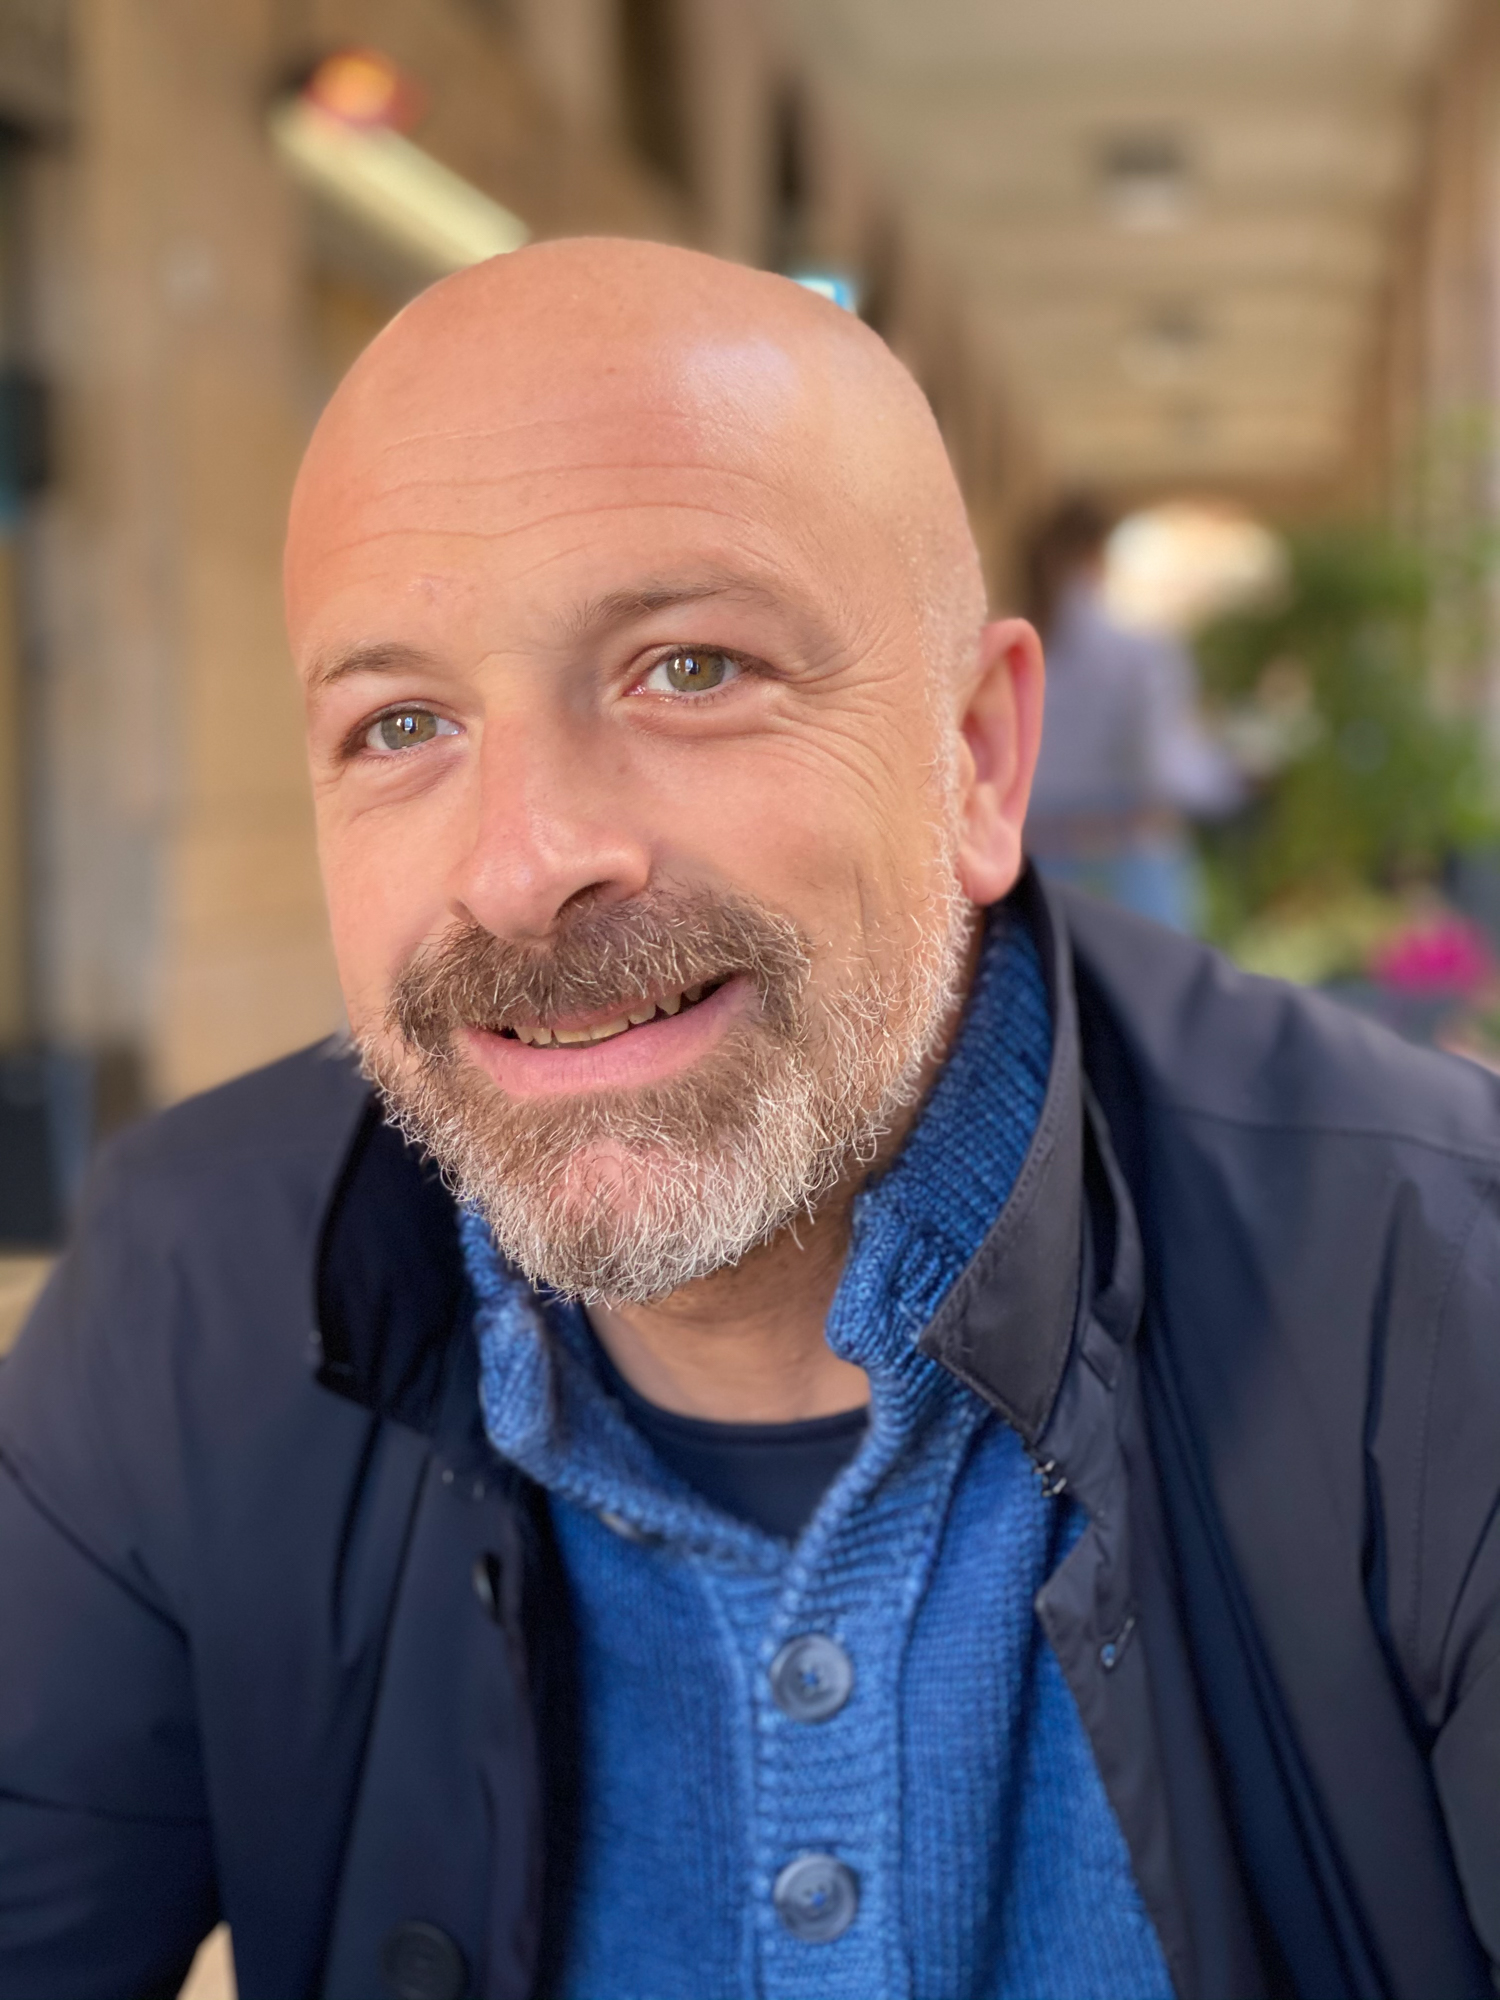
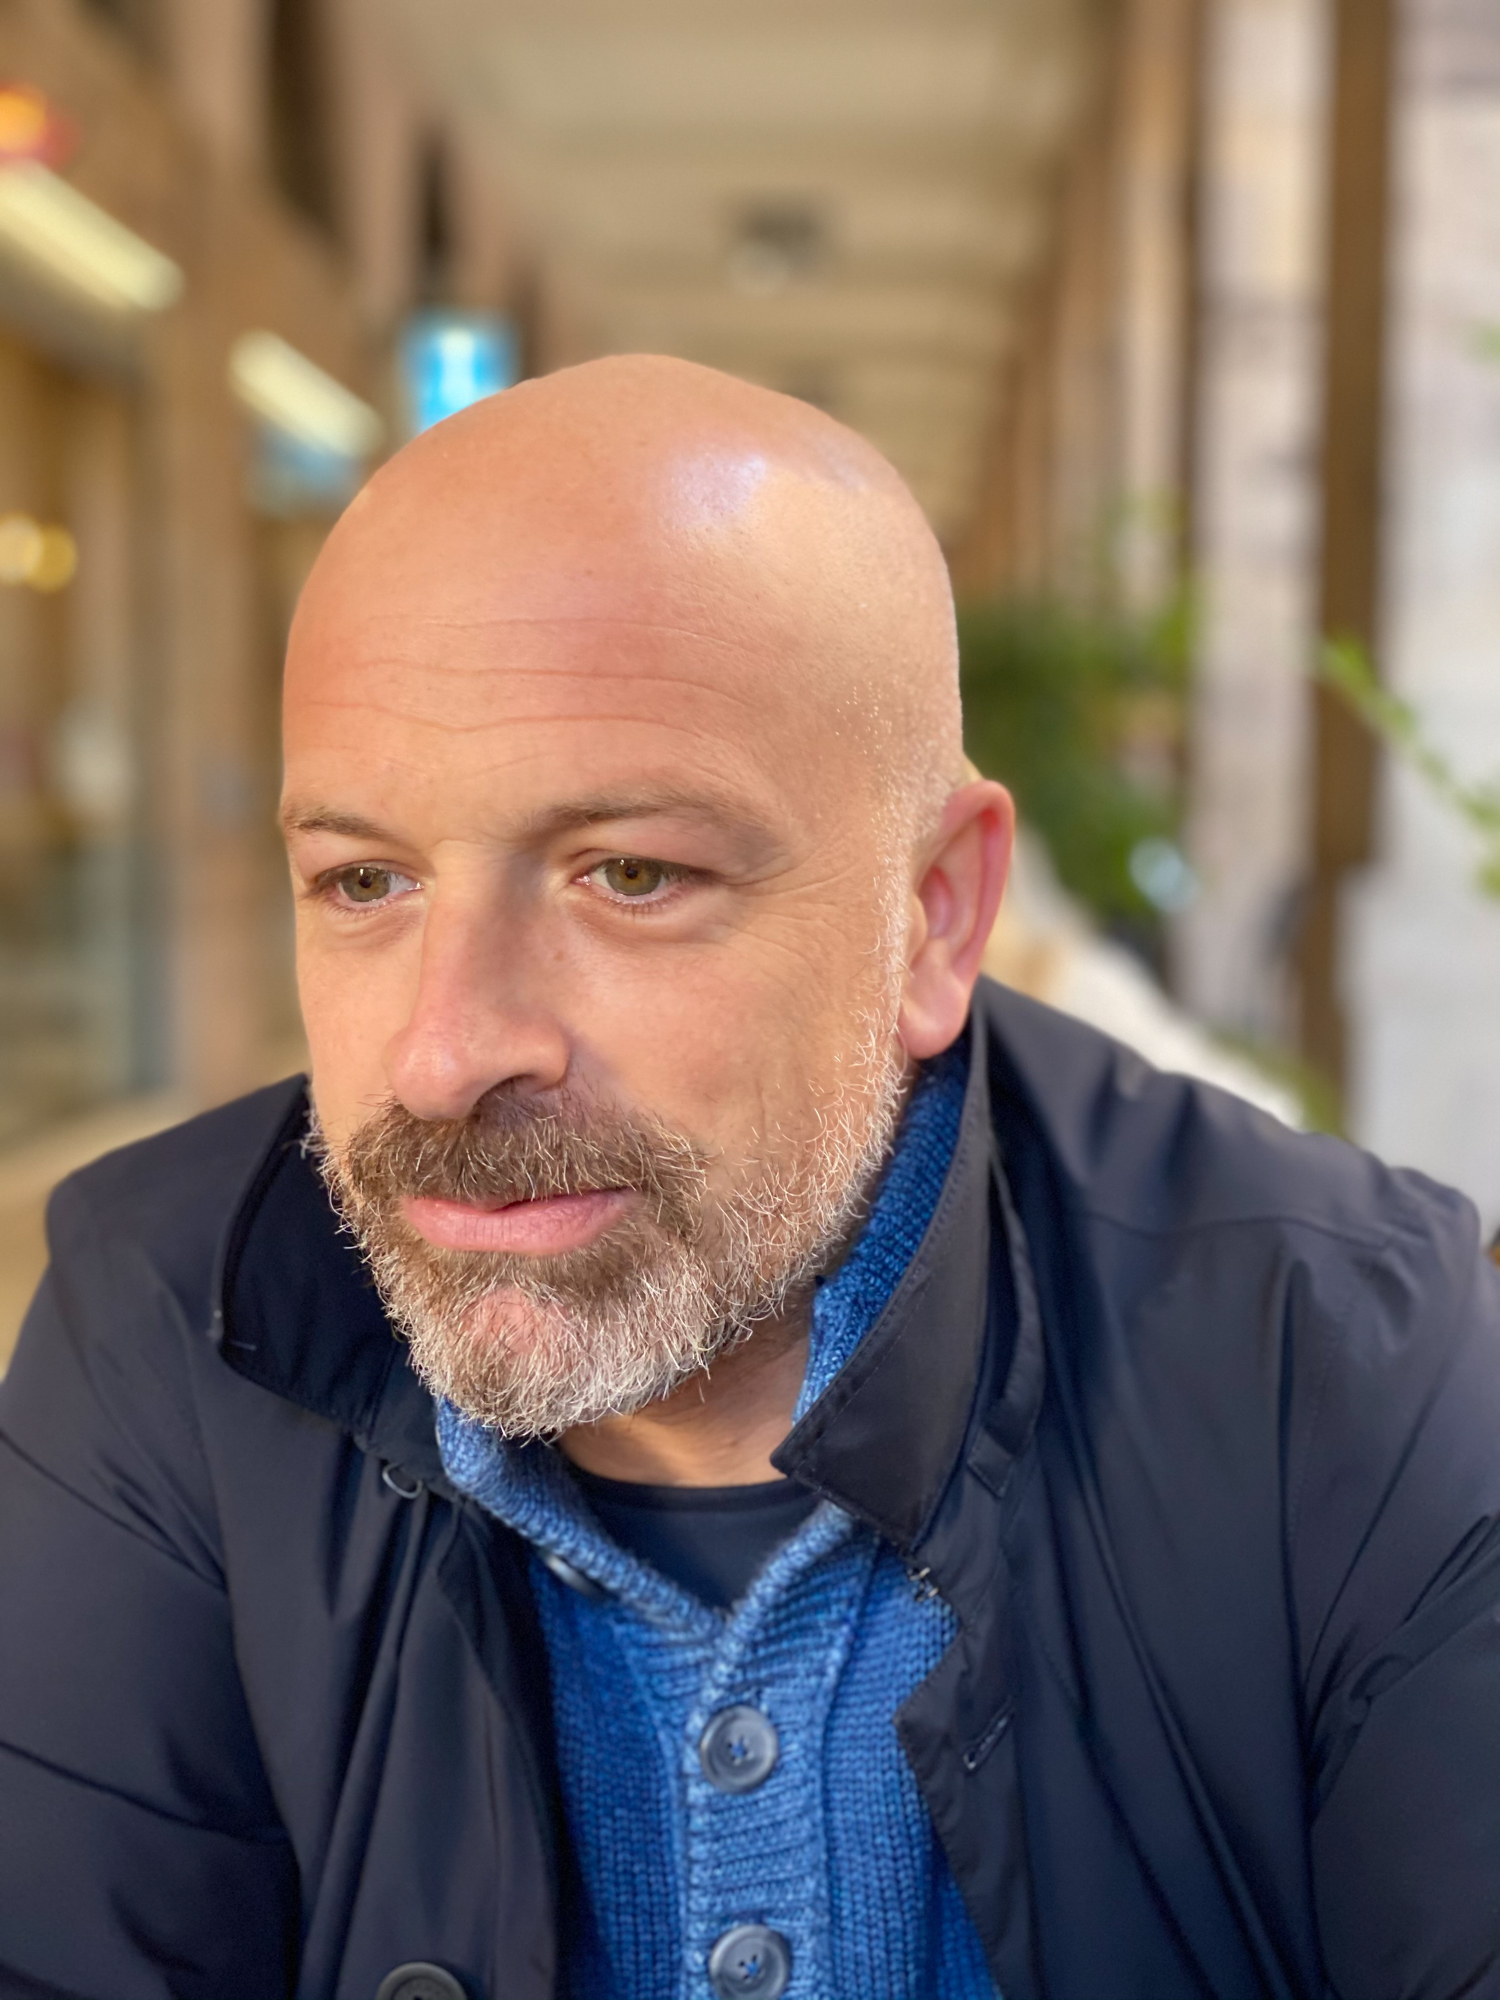
cambiata foto profilo

diff --git a/resources/templates/front/main.php b/resources/templates/front/main.php
@@ -19,7 +19,7 @@
 <!-- QUALCOSA SU DI ME -->
 <div class="row mt-5 page align-items-center">
     <div class="col-lg-4 px-0 borderLeft text-center">
-        <img src="../resources/<?php echo display_image($profile['pro_foto']); ?>" class="profile-img shadow" alt="foto Andrea Costacurta">
+        <img src="../public/images/profile1.jpg" class="profile-img shadow" alt="foto Andrea Costacurta">
     </div>
     <div class="col-lg-8 pl-0 borderRight">
         <div class="text-uppercase pb-5">
